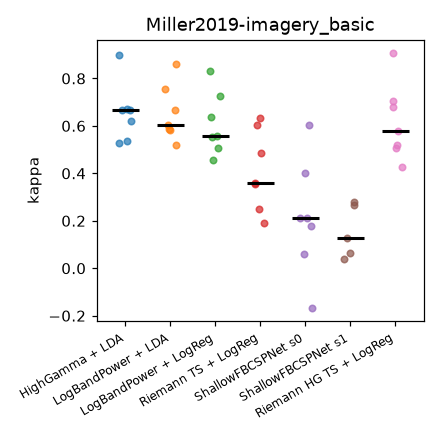
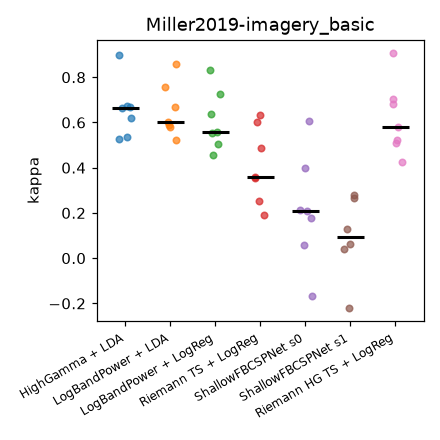
BCI III-1: per-session feature standardisation closes the band-power week gap (0.36 -> 0.75)
Claude-Session: https://claude.ai/code/session_012mHgFPYmnEEGgL1ssc12EU

diff --git a/docs/leaderboard.md b/docs/leaderboard.md
@@ -1,67 +1,79 @@
 # MOECoG leaderboard
 
-Generated 2026-09-11 from `results/*.csv` at commit `c3aab13` by `scripts/build_leaderboard.py`. Values are mean ± sd over subjects of the per-subject fold mean. Headline metrics: kappa (trials), Pearson r (kinematics). Chronological folds unless noted; see `docs/baselines.md` for protocol details.
+Generated 2026-09-11 from `results/*.csv` at commit `2daf9d6` by `scripts/build_leaderboard.py`. Values are mean ± sd over subjects of the per-subject fold mean. Headline metrics: kappa (trials), Pearson r (kinematics). Chronological folds unless noted; see `docs/baselines.md` for protocol details.
 
 ## BCICompIII-1
 
 | evaluation | session | pipeline | n | kappa | accuracy | balanced_accuracy | folds |
 |---|---|---|---|---|---|---|---|
 | cross_session | test | HighGamma + LDA | 1 | 0.000 ± 0.000 | 0.500 ± 0.000 | 0.500 ± 0.000 | chronological, leave_one_session_out |
+| cross_session | test | LogBandPower + BatchZ + LDA | 1 | 0.780 ± 0.000 | 0.890 ± 0.000 | 0.890 ± 0.000 | chronological, leave_one_session_out |
 | cross_session | test | LogBandPower + LDA | 1 | 0.180 ± 0.000 | 0.590 ± 0.000 | 0.590 ± 0.000 | chronological, leave_one_session_out |
 | cross_session | test | LogBandPower + LogReg | 1 | 0.040 ± 0.000 | 0.520 ± 0.000 | 0.520 ± 0.000 | chronological, leave_one_session_out |
 | cross_session | test | Riemann HG TS + LogReg | 1 | 0.360 ± 0.000 | 0.680 ± 0.000 | 0.680 ± 0.000 | chronological, leave_one_session_out |
 | cross_session | test | Riemann TS + LogReg | 1 | 0.520 ± 0.000 | 0.760 ± 0.000 | 0.760 ± 0.000 | chronological, leave_one_session_out |
 | cross_session | train | HighGamma + LDA | 1 | 0.000 ± 0.000 | 0.500 ± 0.000 | 0.500 ± 0.000 | chronological, leave_one_session_out |
+| cross_session | train | LogBandPower + BatchZ + LDA | 1 | 0.719 ± 0.000 | 0.860 ± 0.000 | 0.860 ± 0.000 | chronological, leave_one_session_out |
 | cross_session | train | LogBandPower + LDA | 1 | 0.532 ± 0.000 | 0.766 ± 0.000 | 0.766 ± 0.000 | chronological, leave_one_session_out |
 | cross_session | train | LogBandPower + LogReg | 1 | 0.446 ± 0.000 | 0.723 ± 0.000 | 0.723 ± 0.000 | chronological, leave_one_session_out |
 | cross_session | train | Riemann HG TS + LogReg | 1 | 0.000 ± 0.000 | 0.500 ± 0.000 | 0.500 ± 0.000 | chronological, leave_one_session_out |
 | cross_session | train | Riemann TS + LogReg | 1 | 0.576 ± 0.000 | 0.788 ± 0.000 | 0.788 ± 0.000 | chronological, leave_one_session_out |
 | cross_session:ea | test | HighGamma + LDA | 1 | 0.020 ± 0.000 | 0.510 ± 0.000 | 0.510 ± 0.000 | chronological, leave_one_session_out |
+| cross_session:ea | test | LogBandPower + BatchZ + LDA | 1 | 0.760 ± 0.000 | 0.880 ± 0.000 | 0.880 ± 0.000 | chronological, leave_one_session_out |
 | cross_session:ea | test | LogBandPower + LDA | 1 | 0.020 ± 0.000 | 0.510 ± 0.000 | 0.510 ± 0.000 | chronological, leave_one_session_out |
 | cross_session:ea | test | LogBandPower + LogReg | 1 | 0.100 ± 0.000 | 0.550 ± 0.000 | 0.550 ± 0.000 | chronological, leave_one_session_out |
 | cross_session:ea | test | Riemann HG TS + LogReg | 1 | 0.000 ± 0.000 | 0.500 ± 0.000 | 0.500 ± 0.000 | chronological, leave_one_session_out |
 | cross_session:ea | test | Riemann TS + LogReg | 1 | 0.660 ± 0.000 | 0.830 ± 0.000 | 0.830 ± 0.000 | chronological, leave_one_session_out |
 | cross_session:ea | train | HighGamma + LDA | 1 | 0.000 ± 0.000 | 0.500 ± 0.000 | 0.500 ± 0.000 | chronological, leave_one_session_out |
+| cross_session:ea | train | LogBandPower + BatchZ + LDA | 1 | 0.727 ± 0.000 | 0.863 ± 0.000 | 0.863 ± 0.000 | chronological, leave_one_session_out |
 | cross_session:ea | train | LogBandPower + LDA | 1 | 0.000 ± 0.000 | 0.500 ± 0.000 | 0.500 ± 0.000 | chronological, leave_one_session_out |
 | cross_session:ea | train | LogBandPower + LogReg | 1 | 0.000 ± 0.000 | 0.500 ± 0.000 | 0.500 ± 0.000 | chronological, leave_one_session_out |
 | cross_session:ea | train | Riemann HG TS + LogReg | 1 | -0.007 ± 0.000 | 0.496 ± 0.000 | 0.496 ± 0.000 | chronological, leave_one_session_out |
 | cross_session:ea | train | Riemann TS + LogReg | 1 | 0.295 ± 0.000 | 0.647 ± 0.000 | 0.647 ± 0.000 | chronological, leave_one_session_out |
 | cross_session:recenter | test | HighGamma + LDA | 1 | 0.020 ± 0.000 | 0.510 ± 0.000 | 0.510 ± 0.000 | chronological, leave_one_session_out |
+| cross_session:recenter | test | LogBandPower + BatchZ + LDA | 1 | 0.780 ± 0.000 | 0.890 ± 0.000 | 0.890 ± 0.000 | chronological, leave_one_session_out |
 | cross_session:recenter | test | LogBandPower + LDA | 1 | 0.320 ± 0.000 | 0.660 ± 0.000 | 0.660 ± 0.000 | chronological, leave_one_session_out |
 | cross_session:recenter | test | LogBandPower + LogReg | 1 | 0.520 ± 0.000 | 0.760 ± 0.000 | 0.760 ± 0.000 | chronological, leave_one_session_out |
 | cross_session:recenter | test | Riemann HG TS + LogReg | 1 | 0.080 ± 0.000 | 0.540 ± 0.000 | 0.540 ± 0.000 | chronological, leave_one_session_out |
 | cross_session:recenter | test | Riemann TS + LogReg | 1 | 0.860 ± 0.000 | 0.930 ± 0.000 | 0.930 ± 0.000 | chronological, leave_one_session_out |
 | cross_session:recenter | train | HighGamma + LDA | 1 | 0.000 ± 0.000 | 0.500 ± 0.000 | 0.500 ± 0.000 | chronological, leave_one_session_out |
+| cross_session:recenter | train | LogBandPower + BatchZ + LDA | 1 | 0.727 ± 0.000 | 0.863 ± 0.000 | 0.863 ± 0.000 | chronological, leave_one_session_out |
 | cross_session:recenter | train | LogBandPower + LDA | 1 | 0.000 ± 0.000 | 0.500 ± 0.000 | 0.500 ± 0.000 | chronological, leave_one_session_out |
 | cross_session:recenter | train | LogBandPower + LogReg | 1 | 0.000 ± 0.000 | 0.500 ± 0.000 | 0.500 ± 0.000 | chronological, leave_one_session_out |
 | cross_session:recenter | train | Riemann HG TS + LogReg | 1 | 0.014 ± 0.000 | 0.507 ± 0.000 | 0.507 ± 0.000 | chronological, leave_one_session_out |
 | cross_session:recenter | train | Riemann TS + LogReg | 1 | 0.719 ± 0.000 | 0.860 ± 0.000 | 0.860 ± 0.000 | chronological, leave_one_session_out |
 | cross_session:zscore | test | HighGamma + LDA | 1 | 0.000 ± 0.000 | 0.500 ± 0.000 | 0.500 ± 0.000 | chronological, leave_one_session_out |
+| cross_session:zscore | test | LogBandPower + BatchZ + LDA | 1 | 0.780 ± 0.000 | 0.890 ± 0.000 | 0.890 ± 0.000 | chronological, leave_one_session_out |
 | cross_session:zscore | test | LogBandPower + LDA | 1 | 0.000 ± 0.000 | 0.500 ± 0.000 | 0.500 ± 0.000 | chronological, leave_one_session_out |
 | cross_session:zscore | test | LogBandPower + LogReg | 1 | 0.020 ± 0.000 | 0.510 ± 0.000 | 0.510 ± 0.000 | chronological, leave_one_session_out |
 | cross_session:zscore | test | Riemann HG TS + LogReg | 1 | 0.000 ± 0.000 | 0.500 ± 0.000 | 0.500 ± 0.000 | chronological, leave_one_session_out |
 | cross_session:zscore | test | Riemann TS + LogReg | 1 | 0.000 ± 0.000 | 0.500 ± 0.000 | 0.500 ± 0.000 | chronological, leave_one_session_out |
 | cross_session:zscore | train | HighGamma + LDA | 1 | 0.007 ± 0.000 | 0.504 ± 0.000 | 0.504 ± 0.000 | chronological, leave_one_session_out |
+| cross_session:zscore | train | LogBandPower + BatchZ + LDA | 1 | 0.719 ± 0.000 | 0.860 ± 0.000 | 0.860 ± 0.000 | chronological, leave_one_session_out |
 | cross_session:zscore | train | LogBandPower + LDA | 1 | 0.288 ± 0.000 | 0.644 ± 0.000 | 0.644 ± 0.000 | chronological, leave_one_session_out |
 | cross_session:zscore | train | LogBandPower + LogReg | 1 | 0.669 ± 0.000 | 0.835 ± 0.000 | 0.835 ± 0.000 | chronological, leave_one_session_out |
 | cross_session:zscore | train | Riemann HG TS + LogReg | 1 | 0.259 ± 0.000 | 0.629 ± 0.000 | 0.629 ± 0.000 | chronological, leave_one_session_out |
 | cross_session:zscore | train | Riemann TS + LogReg | 1 | 0.022 ± 0.000 | 0.511 ± 0.000 | 0.511 ± 0.000 | chronological, leave_one_session_out |
 | within_subject | test | HighGamma + LDA | 1 | 0.811 ± 0.000 | 0.910 ± 0.000 | 0.906 ± 0.000 | chronological, leave_one_session_out |
+| within_subject | test | LogBandPower + BatchZ + LDA | 1 | 0.778 ± 0.000 | 0.890 ± 0.000 | 0.901 ± 0.000 | chronological, leave_one_session_out |
 | within_subject | test | LogBandPower + LDA | 1 | 0.855 ± 0.000 | 0.930 ± 0.000 | 0.927 ± 0.000 | chronological, leave_one_session_out |
 | within_subject | test | LogBandPower + LogReg | 1 | 0.836 ± 0.000 | 0.920 ± 0.000 | 0.919 ± 0.000 | chronological, leave_one_session_out |
 | within_subject | test | Riemann HG TS + LogReg | 1 | 0.652 ± 0.000 | 0.830 ± 0.000 | 0.833 ± 0.000 | chronological, leave_one_session_out |
 | within_subject | test | Riemann TS + LogReg | 1 | 0.835 ± 0.000 | 0.920 ± 0.000 | 0.923 ± 0.000 | chronological, leave_one_session_out |
 | within_subject | train | HighGamma + LDA | 1 | 0.507 ± 0.000 | 0.755 ± 0.000 | 0.754 ± 0.000 | chronological, leave_one_session_out |
+| within_subject | train | LogBandPower + BatchZ + LDA | 1 | 0.748 ± 0.000 | 0.874 ± 0.000 | 0.878 ± 0.000 | chronological, leave_one_session_out |
 | within_subject | train | LogBandPower + LDA | 1 | 0.747 ± 0.000 | 0.874 ± 0.000 | 0.875 ± 0.000 | chronological, leave_one_session_out |
 | within_subject | train | LogBandPower + LogReg | 1 | 0.746 ± 0.000 | 0.874 ± 0.000 | 0.873 ± 0.000 | chronological, leave_one_session_out |
 | within_subject | train | Riemann HG TS + LogReg | 1 | 0.585 ± 0.000 | 0.795 ± 0.000 | 0.793 ± 0.000 | chronological, leave_one_session_out |
 | within_subject | train | Riemann TS + LogReg | 1 | 0.811 ± 0.000 | 0.906 ± 0.000 | 0.905 ± 0.000 | chronological, leave_one_session_out |
 | within_subject:ea | test | HighGamma + LDA | 1 | 0.831 ± 0.000 | 0.920 ± 0.000 | 0.916 ± 0.000 | chronological, leave_one_session_out |
+| within_subject:ea | test | LogBandPower + BatchZ + LDA | 1 | 0.797 ± 0.000 | 0.900 ± 0.000 | 0.911 ± 0.000 | chronological, leave_one_session_out |
 | within_subject:ea | test | LogBandPower + LDA | 1 | 0.915 ± 0.000 | 0.960 ± 0.000 | 0.956 ± 0.000 | chronological, leave_one_session_out |
 | within_subject:ea | test | LogBandPower + LogReg | 1 | 0.895 ± 0.000 | 0.950 ± 0.000 | 0.947 ± 0.000 | chronological, leave_one_session_out |
 | within_subject:ea | test | Riemann HG TS + LogReg | 1 | 0.652 ± 0.000 | 0.830 ± 0.000 | 0.833 ± 0.000 | chronological, leave_one_session_out |
 | within_subject:ea | test | Riemann TS + LogReg | 1 | 0.877 ± 0.000 | 0.940 ± 0.000 | 0.942 ± 0.000 | chronological, leave_one_session_out |
 | within_subject:ea | train | HighGamma + LDA | 1 | 0.674 ± 0.000 | 0.838 ± 0.000 | 0.840 ± 0.000 | chronological, leave_one_session_out |
+| within_subject:ea | train | LogBandPower + BatchZ + LDA | 1 | 0.748 ± 0.000 | 0.874 ± 0.000 | 0.879 ± 0.000 | chronological, leave_one_session_out |
 | within_subject:ea | train | LogBandPower + LDA | 1 | 0.733 ± 0.000 | 0.867 ± 0.000 | 0.868 ± 0.000 | chronological, leave_one_session_out |
 | within_subject:ea | train | LogBandPower + LogReg | 1 | 0.782 ± 0.000 | 0.892 ± 0.000 | 0.891 ± 0.000 | chronological, leave_one_session_out |
 | within_subject:ea | train | Riemann HG TS + LogReg | 1 | 0.585 ± 0.000 | 0.795 ± 0.000 | 0.793 ± 0.000 | chronological, leave_one_session_out |
@@ -131,14 +143,14 @@ Generated 2026-09-11 from `results/*.csv` at commit `c3aab13` by `scripts/build_
 | within_subject | im | Riemann HG TS + LogReg | 7 | 0.340 ± 0.277 | 0.671 ± 0.139 | 0.675 ± 0.145 | chronological |
 | within_subject | im | Riemann TS + LogReg | 7 | 0.221 ± 0.196 | 0.598 ± 0.100 | 0.618 ± 0.107 | chronological |
 | within_subject | im | ShallowFBCSPNet s0 | 7 | 0.051 ± 0.170 | 0.521 ± 0.091 | 0.530 ± 0.089 | chronological |
-| within_subject | im | ShallowFBCSPNet s1 | 5 | 0.045 ± 0.093 | 0.517 ± 0.051 | 0.523 ± 0.049 | chronological |
+| within_subject | im | ShallowFBCSPNet s1 | 6 | -0.035 ± 0.198 | 0.478 ± 0.098 | 0.482 ± 0.102 | chronological |
 | within_subject | mot | HighGamma + LDA | 7 | 0.893 ± 0.111 | 0.948 ± 0.055 | 0.954 ± 0.048 | chronological |
 | within_subject | mot | LogBandPower + LDA | 7 | 0.860 ± 0.089 | 0.931 ± 0.044 | 0.934 ± 0.043 | chronological |
 | within_subject | mot | LogBandPower + LogReg | 7 | 0.812 ± 0.117 | 0.907 ± 0.058 | 0.913 ± 0.055 | chronological |
 | within_subject | mot | Riemann HG TS + LogReg | 7 | 0.898 ± 0.093 | 0.950 ± 0.045 | 0.956 ± 0.040 | chronological |
 | within_subject | mot | Riemann TS + LogReg | 7 | 0.603 ± 0.234 | 0.793 ± 0.129 | 0.818 ± 0.109 | chronological |
 | within_subject | mot | ShallowFBCSPNet s0 | 7 | 0.377 ± 0.376 | 0.669 ± 0.213 | 0.686 ± 0.204 | chronological |
-| within_subject | mot | ShallowFBCSPNet s1 | 5 | 0.267 ± 0.272 | 0.630 ± 0.140 | 0.639 ± 0.146 | chronological |
+| within_subject | mot | ShallowFBCSPNet s1 | 6 | 0.221 ± 0.269 | 0.592 ± 0.154 | 0.612 ± 0.147 | chronological |
 
 ## Miller2019-motor_basic
 

diff --git a/docs/analysis.md b/docs/analysis.md
@@ -6,6 +6,7 @@ Generated 2026-09-11 by `scripts/build_analysis.py` from `results/reference_*.cs
 
 | pipeline | mean | sd | median | patients |
 |---|---|---|---|---|
+| LogBandPower + BatchZ + LDA | 0.750 | nan | 0.750 | 1 |
 | Riemann TS + LogReg | 0.548 | nan | 0.548 | 1 |
 | LogBandPower + LDA | 0.356 | nan | 0.356 | 1 |
 | LogBandPower + LogReg | 0.243 | nan | 0.243 | 1 |
@@ -16,6 +17,7 @@ Generated 2026-09-11 by `scripts/build_analysis.py` from `results/reference_*.cs
 
 | pipeline | mean | sd | median | patients |
 |---|---|---|---|---|
+| LogBandPower + BatchZ + LDA | 0.743 | nan | 0.743 | 1 |
 | Riemann TS + LogReg | 0.477 | nan | 0.477 | 1 |
 | LogBandPower + LogReg | 0.050 | nan | 0.050 | 1 |
 | HighGamma + LDA | 0.010 | nan | 0.010 | 1 |
@@ -27,6 +29,7 @@ Generated 2026-09-11 by `scripts/build_analysis.py` from `results/reference_*.cs
 | pipeline | mean | sd | median | patients |
 |---|---|---|---|---|
 | Riemann TS + LogReg | 0.790 | nan | 0.790 | 1 |
+| LogBandPower + BatchZ + LDA | 0.753 | nan | 0.753 | 1 |
 | LogBandPower + LogReg | 0.260 | nan | 0.260 | 1 |
 | LogBandPower + LDA | 0.160 | nan | 0.160 | 1 |
 | Riemann HG TS + LogReg | 0.047 | nan | 0.047 | 1 |
@@ -36,6 +39,7 @@ Generated 2026-09-11 by `scripts/build_analysis.py` from `results/reference_*.cs
 
 | pipeline | mean | sd | median | patients |
 |---|---|---|---|---|
+| LogBandPower + BatchZ + LDA | 0.750 | nan | 0.750 | 1 |
 | LogBandPower + LogReg | 0.345 | nan | 0.345 | 1 |
 | LogBandPower + LDA | 0.144 | nan | 0.144 | 1 |
 | Riemann HG TS + LogReg | 0.129 | nan | 0.129 | 1 |
@@ -63,6 +67,7 @@ Train on the first 10/25/50/100 % of the non-test trials of every (patient, sess
 | Riemann TS + LogReg | 0.823 | nan | 0.823 | 1 |
 | LogBandPower + LDA | 0.801 | nan | 0.801 | 1 |
 | LogBandPower + LogReg | 0.791 | nan | 0.791 | 1 |
+| LogBandPower + BatchZ + LDA | 0.763 | nan | 0.763 | 1 |
 | HighGamma + LDA | 0.659 | nan | 0.659 | 1 |
 | Riemann HG TS + LogReg | 0.618 | nan | 0.618 | 1 |
 
@@ -73,6 +78,7 @@ Train on the first 10/25/50/100 % of the non-test trials of every (patient, sess
 | Riemann TS + LogReg | 0.848 | nan | 0.848 | 1 |
 | LogBandPower + LogReg | 0.838 | nan | 0.838 | 1 |
 | LogBandPower + LDA | 0.824 | nan | 0.824 | 1 |
+| LogBandPower + BatchZ + LDA | 0.773 | nan | 0.773 | 1 |
 | HighGamma + LDA | 0.753 | nan | 0.753 | 1 |
 | Riemann HG TS + LogReg | 0.618 | nan | 0.618 | 1 |
 
@@ -208,11 +214,27 @@ Train on the first 10/25/50/100 % of the non-test trials of every (patient, sess
 | LogBandPower + LogReg | 0.609 | 0.132 | 0.556 | 7 |
 | Riemann TS + LogReg | 0.412 | 0.169 | 0.361 | 7 |
 | ShallowFBCSPNet s0 | 0.214 | 0.245 | 0.211 | 7 |
-| ShallowFBCSPNet s1 | 0.156 | 0.113 | 0.128 | 5 |
+| ShallowFBCSPNet s1 | 0.093 | 0.184 | 0.096 | 6 |
 
-Mean rank (1 = best), Friedman p = 0.000866: LogBandPower + LDA 2.20, HighGamma + LDA 2.40, Riemann HG TS + LogReg 2.60, LogBandPower + LogReg 3.20, Riemann TS + LogReg 4.60, ShallowFBCSPNet s0 6.40, ShallowFBCSPNet s1 6.60
+Mean rank (1 = best), Friedman p = 8.56e-05: HighGamma + LDA 2.17, LogBandPower + LDA 2.17, Riemann HG TS + LogReg 2.67, LogBandPower + LogReg 3.33, Riemann TS + LogReg 4.67, ShallowFBCSPNet s0 6.33, ShallowFBCSPNet s1 6.67
 
-No pairwise difference reaches p < 0.05.
+Significant pairwise differences (row beats column, p < 0.05):
+
+- HighGamma + LDA > Riemann TS + LogReg: p = 0.0308, d_z = 2.11
+- HighGamma + LDA > ShallowFBCSPNet s0: p = 0.0308, d_z = 2.88
+- HighGamma + LDA > ShallowFBCSPNet s1: p = 0.0308, d_z = 2.49
+- LogBandPower + LDA > LogBandPower + LogReg: p = 0.0308, d_z = 2.19
+- LogBandPower + LDA > ShallowFBCSPNet s0: p = 0.0308, d_z = 1.85
+- LogBandPower + LDA > ShallowFBCSPNet s1: p = 0.0308, d_z = 2.40
+- LogBandPower + LogReg > ShallowFBCSPNet s0: p = 0.0308, d_z = 1.62
+- LogBandPower + LogReg > ShallowFBCSPNet s1: p = 0.0308, d_z = 2.20
+- Riemann HG TS + LogReg > Riemann TS + LogReg: p = 0.0308, d_z = 1.45
+- Riemann HG TS + LogReg > ShallowFBCSPNet s0: p = 0.0308, d_z = 1.93
+- Riemann HG TS + LogReg > ShallowFBCSPNet s1: p = 0.0308, d_z = 2.48
+- Riemann TS + LogReg > ShallowFBCSPNet s0: p = 0.0308, d_z = 2.88
+- Riemann TS + LogReg > ShallowFBCSPNet s1: p = 0.0308, d_z = 1.95
+- LogBandPower + LDA > Riemann TS + LogReg: p = 0.0462, d_z = 1.30
+- LogBandPower + LogReg > Riemann TS + LogReg: p = 0.0462, d_z = 1.03
 
 ![imagery_basic_within_subject scores](figures/imagery_basic_within_subject_scores.png)
 

diff --git a/ROADMAP.md b/ROADMAP.md
@@ -62,7 +62,7 @@ catalog and smoke sweep of 130 public deposits (106 load).
 | Merk grip force + Peterson pose | regression paradigms for force and 2-D pose; ridge and PACE baselines |
 | Detroit naming corpora (ds006910, ds006234, ds005545) | 100+ patient classification with the epoched paradigm; per-patient distribution plotted |
 | Stimulus reconstruction | `SpectrogramReconstruction` paradigm on Bellier and Verwoert |
-| Session drift | label-free per-session alignment as an evaluation option (`moecog.alignment`: Euclidean alignment, Riemannian re-centering, raw z-score) and per-session feature standardisation as a pipeline step (`BatchStandardizer`), evaluated on BCI III-1 cross-session; the literature says alignment is worth 3-10 points and no single method wins (`docs/best_practices.md`) | started 2026-09-11: Riemannian re-centering lifts the Riemannian pipeline from 0.55 to 0.79 across the BCI III-1 sessions, Euclidean alignment hurts every pipeline there; band power needs feature-level standardisation instead |
+| Session drift | label-free per-session alignment as an evaluation option (`moecog.alignment`: Euclidean alignment, Riemannian re-centering, raw z-score) and per-session feature standardisation as a pipeline step (`BatchStandardizer`), evaluated on BCI III-1 cross-session; the literature says alignment is worth 3-10 points and no single method wins (`docs/best_practices.md`) | done for BCI III-1 2026-09-11: Riemannian re-centering lifts the Riemannian pipeline from 0.55 to 0.79 across the sessions, per-session feature standardisation lifts band power from 0.36 to 0.75 (within-session 0.80 to 0.82); Euclidean alignment hurts everything there. Needs a second multi-session dataset family to become a population claim |
 | Deep fingerflex | a FingerFlex-style convolutional regressor as a pipeline, to test the published r above 0.6 on BCI IV-4 against ridge's 0.28 |
 
 ### M4. Cross-subject and transfer (target 2027-01)

diff --git a/docs/baselines.md b/docs/baselines.md
@@ -78,8 +78,12 @@ the PACE camera-ready (2026-09-25).
   whitening mixes channels, so band power of the mixed channels no longer means the same thing on the next day.
   Per-channel z-scoring of the raw session does not help band power either (0.14 to 0.35 against 0.24 to 0.36
   unaligned), so the drift is not a per-channel gain. Within a session, whitening on all trials (transductive)
-  adds two to nine points to every classical pipeline (`within_subject:ea`). The alignment that suits band-power
-  features is standardisation of the features per session, the next chunk (`BatchStandardizer`).
+  adds two to nine points to every classical pipeline (`within_subject:ea`). The fix that suits band power is
+  standardising the features per session: `LogBandPower + BatchZ + LDA` (`BatchStandardizer`, z-scoring over the
+  batch it transforms, so over the whole held-out session) goes from 0.36 to 0.75 across the week and stays there
+  whatever raw alignment precedes it (0.74 to 0.75), at a cost of four points within a session (0.76 against 0.80,
+  a fifth of a session being a small batch to standardise on). Two label-free fixes, one per feature family, and
+  both land within a few points of the within-session numbers (0.75 and 0.79 against 0.80 and 0.82).
 - **Fingerflex**: HighGamma + Ridge r 0.28 beats LogBandPower + Ridge 0.27 in 9 of 9 patients (p = 0.016); both sit
   far below the 0.74 that FingerFlex's convolutional decoder reports, the M3 target.
 
